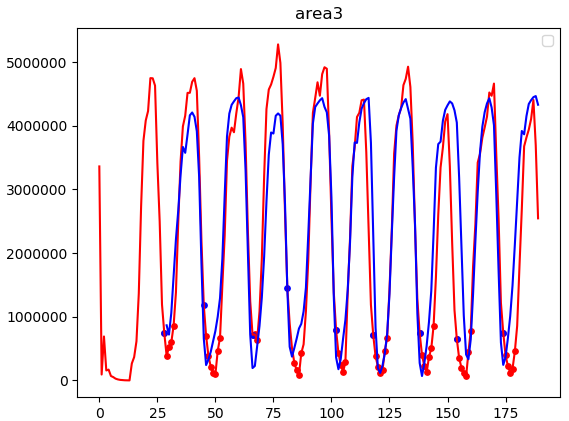
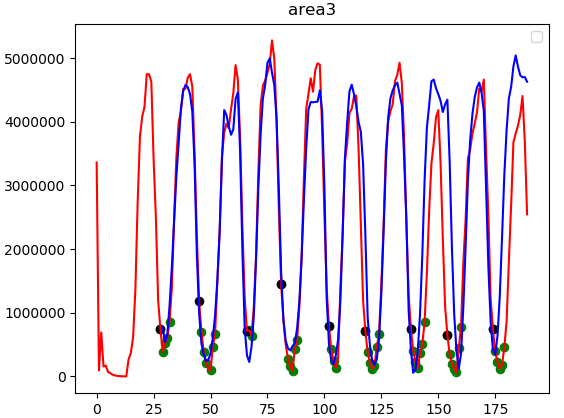
update README

Changed region(s): [[0.0, 0.0, 0.9947, 0.9952]]

diff --git a/README.md b/README.md
@@ -3,7 +3,7 @@ A model for predicting hot and cold data
 
 ## Dataset
 
-### Signle Update
+### Single Update
 
 ![signle-update](images/signle-update.jpg)
 
@@ -17,10 +17,17 @@ A model for predicting hot and cold data
 
 ## Result
 
+### single Update
+![single_cluster_predict](images/single_data_predict.png)
+平均绝对误差（mae）/Byte:[455162   83103]
+R2_score(预测值与真实值接近程度，最大为1):[0.878  0.960]
 ### Multiple Update
 ![multiple-cube-append](images/multiple-cube-append.png)
 ![multiple-predict-append](images/multiple-predict-append.png)
-
+红色线为真实值，蓝色线为预测值，横轴为时间（分钟），
+通过前20分钟曲线预测10分钟之后的时刻的写比特。
+其中点代表集群调度时间，选择在实际负载低的时候进行region调度。绿色点代表将未来临近时间负载高的region调度到高性能机器上，
+黑色点代表此时可以从高性能机器上将region调出。
 ### TODO
 
 - Combine k8s
